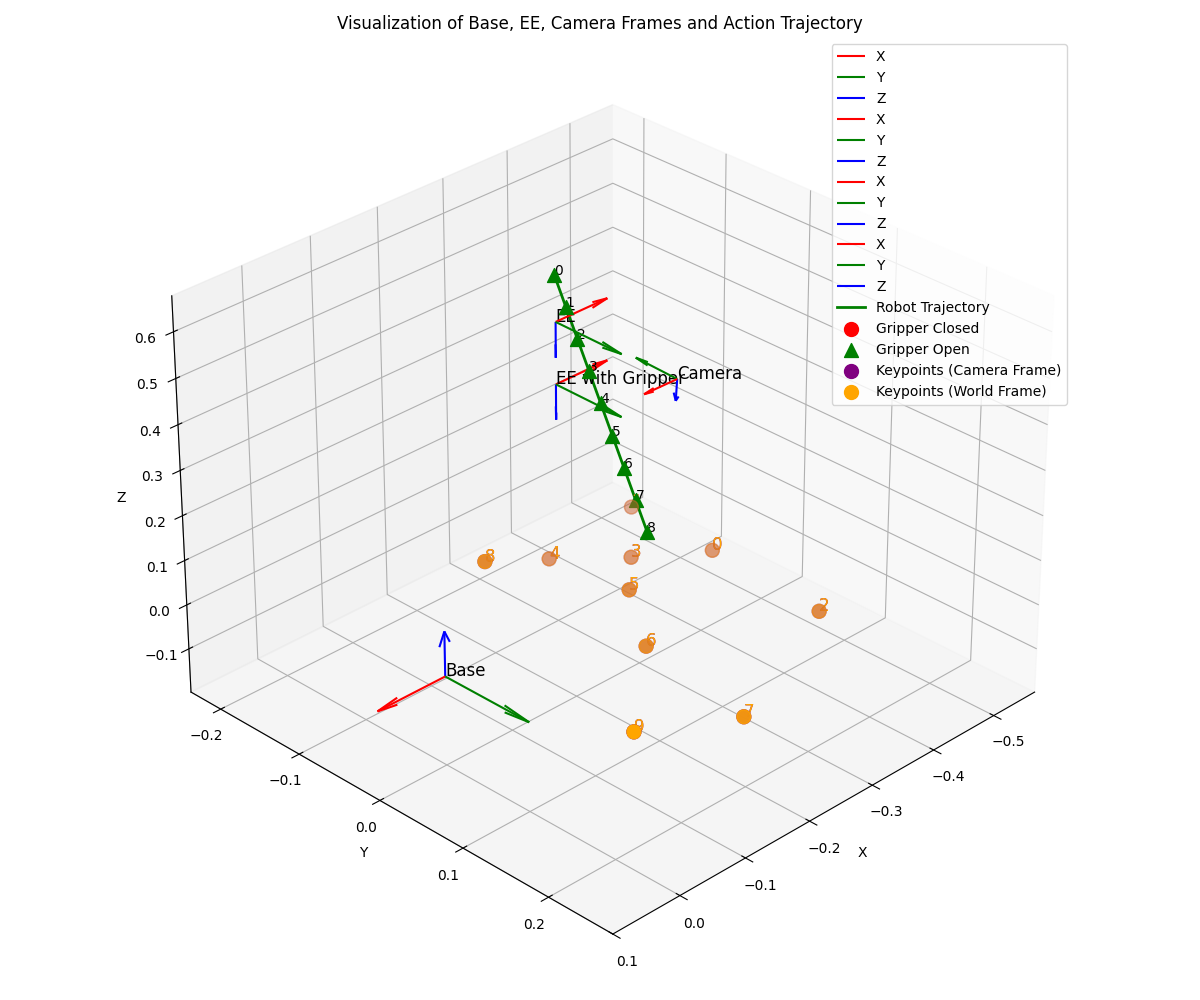
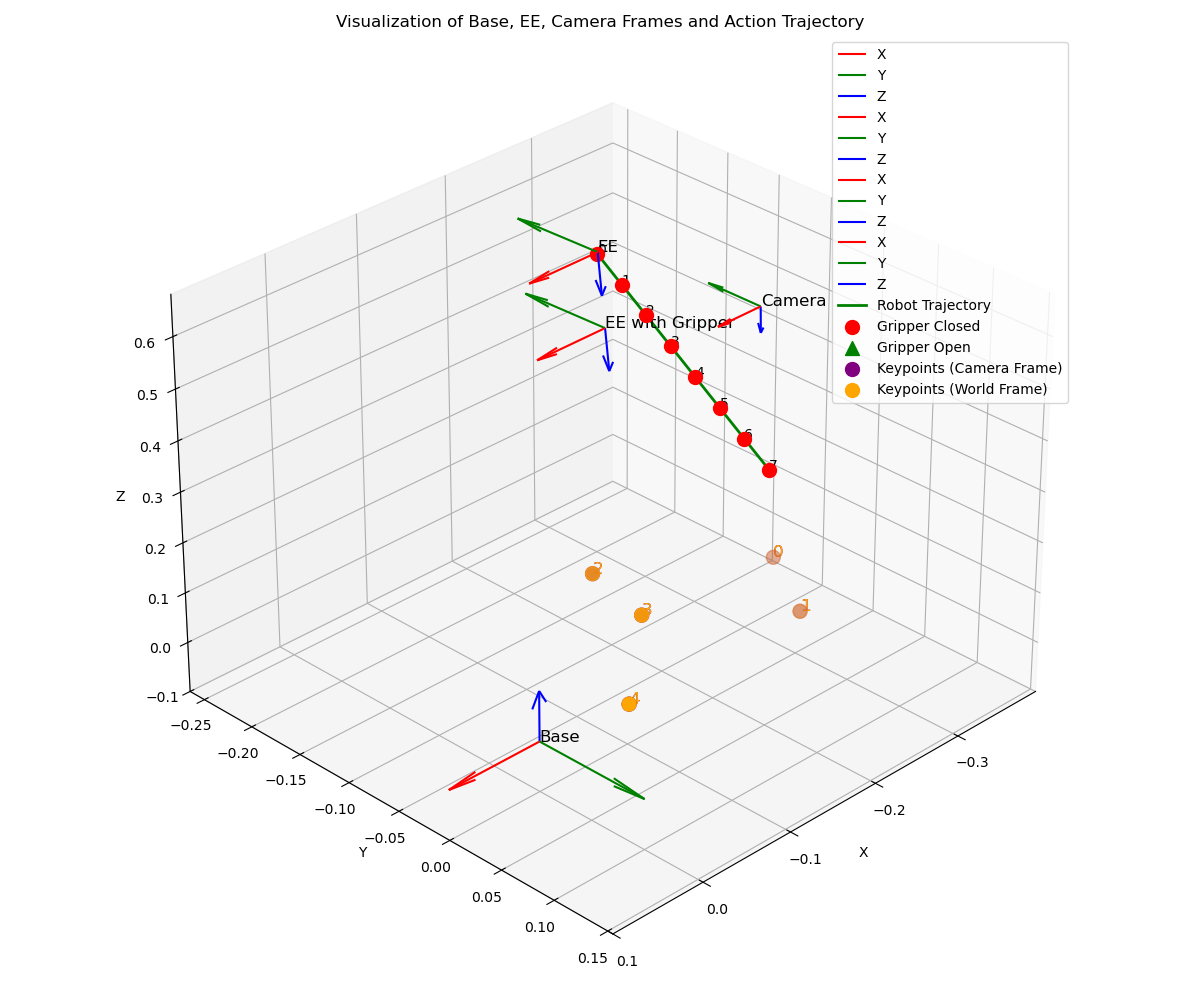
real_action.py correct

diff --git a/visualization.py b/visualization.py
@@ -65,9 +65,9 @@ def transform_keypoints_to_world(keypoints, ee_pose, ee2camera):
     
     # Apply handedness correction - reverse X and Z axes
     rot_correct = np.array([
-        [-1, 0, 0],
+        [1, 0, 0],
         [0, -1, 0],
-        [0, 0, 1]
+        [0, 0, -1]
     ])
     rotation_corrected = rotation @ rot_correct
     
@@ -80,10 +80,15 @@ def transform_keypoints_to_world(keypoints, ee_pose, ee2camera):
     camera_frame_incorrect = base2ee_original @ ee2camera
     
     # Create camera axes correction matrix
+    # camera_axes_correction = np.array([
+    #     [0, 0, 1],  # New x-axis is old z-axis
+    #     [-1, 0, 0], # New y-axis is old x-axis
+    #     [0, -1, 0]  # New z-axis is negative old y-axis
+    # ])
     camera_axes_correction = np.array([
-        [0, 0, 1],  # New x-axis is old z-axis
-        [-1, 0, 0], # New y-axis is old x-axis
-        [0, -1, 0]  # New z-axis is negative old y-axis
+        [1, 0, 0],  # New x-axis is old z-axis
+        [0, 1, 0], # New y-axis is old x-axis
+        [0, 0, 1]  # New z-axis is negative old y-axis
     ])
     
     # Apply the correction to the camera frame rotation part
@@ -133,11 +138,11 @@ def load_action_sequence(action_file_path):
 def visualize_frames(rekep_program_dir=None, action_file_path=None):
     """Visualize the base, EE, and camera coordinate frames with the correct interpretation"""
     # Load camera extrinsics
-    extrinsics_path = '/home/xu/.ros/easy_handeye/easy_handeye_eye_on_hand.yaml'
+    extrinsics_path = 'cam_env/easy_handeye/easy_handeye_eye_on_hand.yaml'
     ee2camera = load_camera_extrinsics(extrinsics_path)
     
     # Get test EE pose
-    ee_pose = np.array([-0.3029407, -0.10364389, 0.47234771, -0.99996402, 0.00576533, 0.00473004, -0.00404257])
+    ee_pose = np.array([-0.26015666, -0.16468608,  0.57478494,  0.03123733, -0.00634068,  0.00497733, 0.99947949])
     
     # Create 3D plot
     fig = plt.figure(figsize=(12, 10))
@@ -153,9 +158,9 @@ def visualize_frames(rekep_program_dir=None, action_file_path=None):
     
     # Apply handedness correction - reverse X and Z axes
     rot_correct = np.array([
-        [-1, 0, 0],
+        [1, 0, 0],
         [0, -1, 0],
-        [0, 0, 1]
+        [0, 0, -1]
     ])
     rotation_corrected = rotation @ rot_correct
     
@@ -177,10 +182,15 @@ def visualize_frames(rekep_program_dir=None, action_file_path=None):
     camera_frame_incorrect = base2ee_original @ ee2camera
     
     # Create camera axes correction matrix
+    # camera_axes_correction = np.array([
+    #     [0, 0, 1],  # New x-axis is old z-axis
+    #     [-1, 0, 0], # New y-axis is old x-axis
+    #     [0, -1, 0]  # New z-axis is negative old y-axis
+    # ])
     camera_axes_correction = np.array([
-        [0, 0, 1],  # New x-axis is old z-axis
-        [-1, 0, 0], # New y-axis is old x-axis
-        [0, -1, 0]  # New z-axis is negative old y-axis
+        [1, 0, 0],  # New x-axis is old z-axis
+        [0, 1, 0], # New y-axis is old x-axis
+        [0, 0, 1]  # New z-axis is negative old y-axis
     ])
     
     # Apply the correction to the camera frame rotation part
@@ -288,7 +298,7 @@ def visualize_frames(rekep_program_dir=None, action_file_path=None):
 
 def main():
     parser = argparse.ArgumentParser(description='Visualize coordinate frames and keypoints')
-    parser.add_argument('--extrinsics', type=str, default='/home/xu/.ros/easy_handeye/easy_handeye_eye_on_hand.yaml',
+    parser.add_argument('--extrinsics', type=str, default='cam_env/easy_handeye/easy_handeye_eye_on_hand.yaml',
                       help='Path to camera extrinsics YAML file')
     parser.add_argument('--rekep_dir', type=str, help='Path to ReKep program directory containing metadata.json')
     parser.add_argument('--action_file', type=str, help='Path to action.json file containing robot trajectory')

diff --git a/real_action.py b/real_action.py
@@ -254,9 +254,9 @@ class MainR2D2:
         
         # 应用手性校正
         rot_correct = np.array([
-            [-1, 0, 0],
+            [1, 0, 0],
             [0, -1, 0],
-            [0, 0, 1]
+            [0, 0, -1]
         ])
         rotation_corrected = rotation_matrix @ rot_correct
         
@@ -370,9 +370,9 @@ class MainR2D2:
         
         # Apply handedness correction - reverse X and Z axes
         rot_correct = np.array([
-            [-1, 0, 0],
+            [1, 0, 0],
             [0, -1, 0],
-            [0, 0, 1]
+            [0, 0, -1]
         ])
         rotation_corrected = rotation @ rot_correct
 
